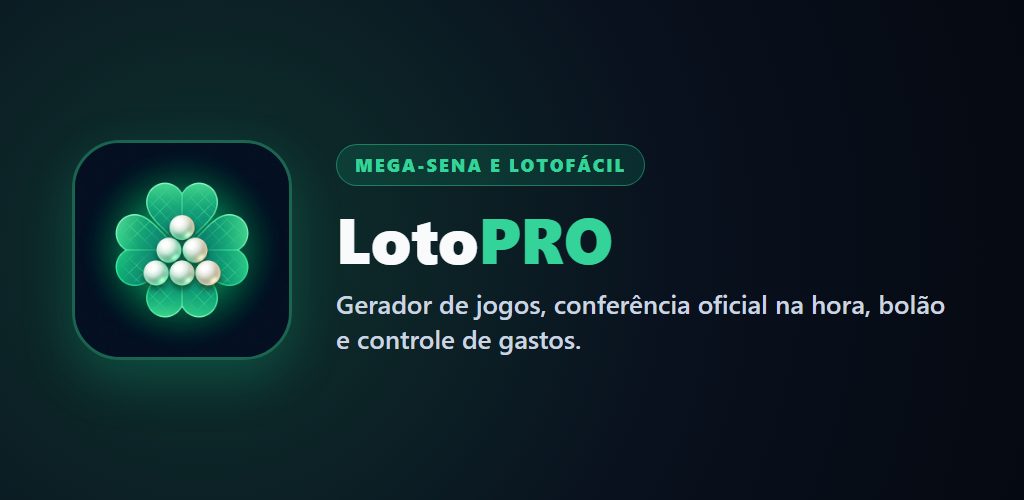
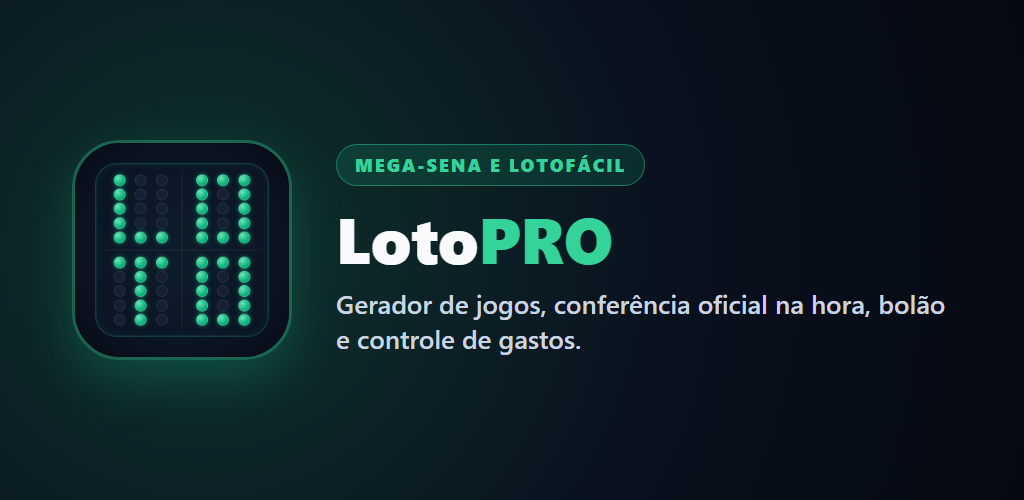
fix(play): icone volante LOTO e entidade VBJ Solucoes em excluir-conta.html

Changed region(s): [[0.0938, 0.33, 0.25, 0.66]]

diff --git a/excluir-conta.html b/excluir-conta.html
@@ -66,8 +66,15 @@
 <body>
 <div class="envelope">
 
-  <div class="marca">🎯 LotoPRO</div>
+  <div class="marca">🎯 LotoPRO · VBJ Soluções (br.dev.pd.meuvolante)</div>
   <h1>Excluir minha conta e meus dados</h1>
+
+  <p>
+    Esta página oficial de exclusão de conta refere-se ao aplicativo
+    <strong>LotoPRO: Mega e Lotofácil</strong> (anteriormente <strong>Meu Volante PRO</strong>,
+    pacote <code>br.dev.pd.meuvolante</code>), desenvolvido por
+    <strong>VBJ Soluções Empresariais Inteligentes LTDA (VBJ Solucoes)</strong>.
+  </p>
 
   <p>
     Esta página permite pedir a remoção da sua conta sem instalar o aplicativo.
@@ -140,8 +147,9 @@
       <a href="./">Abrir o aplicativo</a>
     </p>
     <p>
-      LotoPRO · Ferramenta de organização e análise estatística de
-      jogos lotéricos. Não recebe apostas e não paga prêmios.
+      <strong>LotoPRO: Mega e Lotofácil</strong> (anteriormente Meu Volante PRO · <code>br.dev.pd.meuvolante</code>)<br />
+      Desenvolvido por <strong>VBJ Soluções Empresariais Inteligentes LTDA (VBJ Solucoes)</strong> · CNPJ 59.474.673/0001-26<br />
+      Contato: <a href="mailto:comercial.profitdata@gmail.com">comercial.profitdata@gmail.com</a> · Ferramenta de organização e análise estatística de jogos lotéricos. Não recebe apostas e não paga prêmios.
     </p>
   </footer>
 </div>
